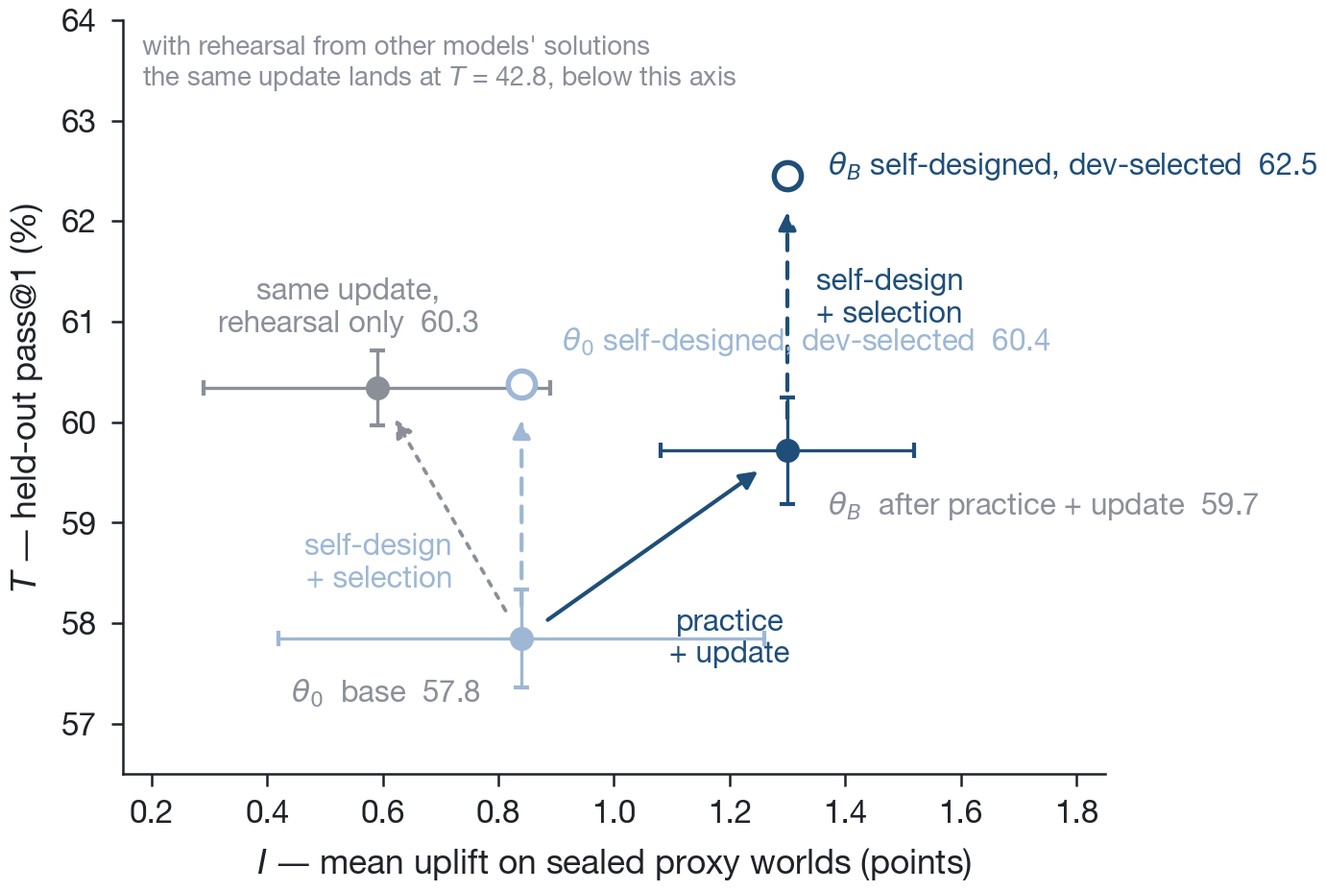
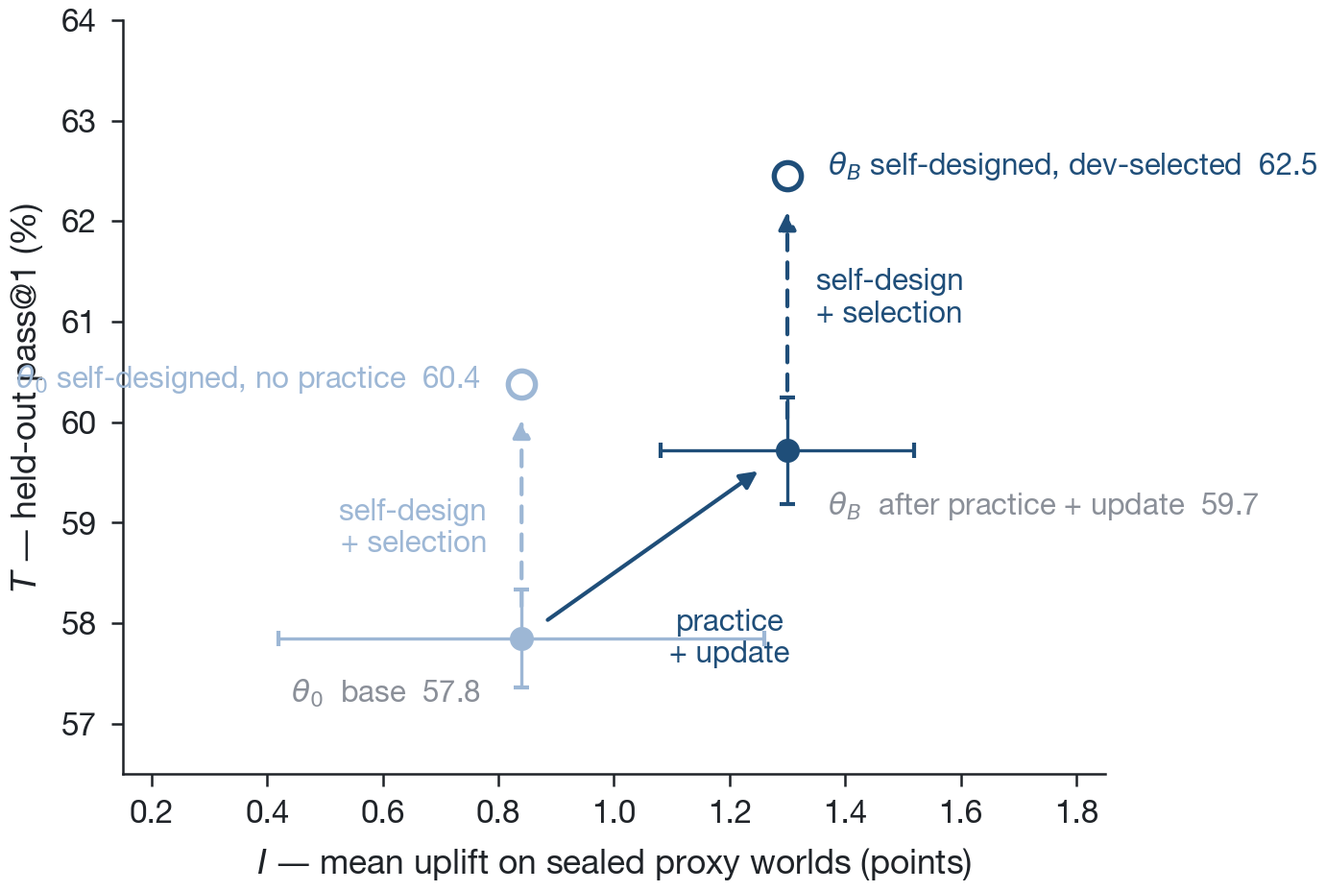
report: one chain, two rounds -- drop the control chain and the rehearsal-only control, keep the no-practice reference

diff --git a/en/index.html b/en/index.html
@@ -66,23 +66,23 @@ summary::before{content:'+';display:inline-block;width:18px;color:var(--mute)}de
 <nav class="toc col"><a href="#tldr">In brief</a><a href="#read">How to read</a><a href="#abstract">Abstract</a><a href="#findings">Findings</a><a href="#method">Method</a><a href="#results">Results</a><a href="#analysis">Analysis</a><a href="#limits">Limitations</a><a href="https://github.com/haochen2115/minimal-rsi">GitHub</a></nav>
 
 <section class="lead col" id="tldr"><p><b>The question:</b> can a model learn to improve itself by practicing on a smaller model — so that improvement ability and task ability rise together?<br>
-<b>What we did:</b> a 9B ran hundreds of real training experiments on flawed 2B models, was fine-tuned on the experience that worked, and then designed its own training; a control chain skipped the practice and went straight to self-design.<br>
-<b>What happened:</b> after one turn the practised 9B was up on both abilities, and self-design plus selection reached 62.5% (base 57.8, no practice 60.4). In a second turn neither chain gained; most self-designed programs hurt, and selection is what rescued them. Without an external input the loop turns once.</p></section>
+<b>What we did:</b> a 9B ran hundreds of real training experiments on flawed 2B models, was fine-tuned on the experience that worked, and then designed its own training; as a reference, the base model also designed its own training once without any practice.<br>
+<b>What happened:</b> after one turn the practised 9B was up on both abilities, and self-design plus selection reached 62.5% (base 57.8, no practice 60.4). A second turn added nothing to task ability; most self-designed programs hurt, and selection is what rescued them. Without an external input the loop turns once.</p></section>
 
-<figure class="wide"><img src="../assets/figs/fig_story.svg" alt="Figure 1"><figcaption><b>Figure 1 · The loop, and the two chains we measured.</b> Left: one turn. The researcher θ writes training programs for flawed 2B proxies and is updated on the ones that worked (θ<sub>B</sub>); it then designs its own training, and the program selected on the dev split gives θ′, the start of the next turn. Practice on the proxies is the only step where new information enters. Right: every circle is a model that was really trained and measured. The number above it is T, pass@1 on held-out problems; below it are I, the mean uplift its programs produce on sealed 2B worlds, and how many of its 32 programs run. The control chain skips practice.</figcaption></figure>
+<figure class="wide"><img src="../assets/figs/fig_story.svg" alt="Figure 1"><figcaption><b>Figure 1 · The loop, and the two rounds we measured.</b> Left: one turn. The researcher θ writes training programs for flawed 2B proxies and is updated on the ones that worked (θ<sub>B</sub>); it then designs its own training, and the program selected on the dev split gives θ′, the start of the next turn. Practice on the proxies is the only step where new information enters. Right: every circle is a model that was really trained and measured. The number above it is T, pass@1 on held-out problems; below it are I, the mean uplift its programs produce on sealed 2B worlds, and how many of its 32 programs run. The reference point is the base model designing its own training once, without practice.</figcaption></figure>
 
 <div class="col">
 <h2 id="read"><span class="no">§</span>How to read the numbers</h2>
 <ul>
 <li><b>T</b> (task ability): the model's own pass@1 on 127 held-out coding problems, in percent. One measurement has about ±1.5 points of noise, so differences under a point do not mean anything.</li>
-<li><b>I</b> (improvement ability): the model writes training programs for two 2B models whose defect type it has never seen; the programs are really run, and I is the mean improvement they produce, in points. It is averaged over programs that run, so read it next to "programs that run" — the control chain's round-1 head shows I = 1.48, but only 15 of its 32 programs were even valid; counting failures as zero it is 0.60, against 0.73 for the practised head.</li>
+<li><b>I</b> (improvement ability): the model writes training programs for two 2B models whose defect type it has never seen; the programs are really run, and I is the mean improvement they produce, in points. It is averaged over programs that run, so read it next to "programs that run".</li>
 <li><b>dev / hidden</b>: programs are selected on the dev split only; scores are reported on the hidden split only. A growing gap between them is the signature of overfitting the selection.</li>
 <li><b>A turn</b>: practice → update → self-design → selection; the selected model starts the next turn.</li>
 </ul>
-<section class="abstract" id="abstract"><h2>Abstract</h2><p>Recursive self-improvement (RSI) is mostly discussed at scales where it cannot be studied as a controlled experiment. We present <b>Minimal-RSI</b>, a small system in which the defining loop of RSI is carried out for real: a language model designs a training program for a model, the program is executed, its effect is measured, the model is trained on the programs that worked, and it then designs and undergoes its own training. The system uses a single model family — a 9B <em>researcher</em> and a 2B <em>proxy</em> — supervised fine-tuning only, and eight 40 GB GPUs. We measure two full turns of the loop. The researcher runs 244 real training experiments on flawed 2B checkpoints (976 proxy trainings) and is fine-tuned on the programs that worked, with rehearsal drawn from its own verified samples. This single update raises both abilities at once: improvement ability on sealed proxy tasks with a defect never seen in practice rises from +0.8 to +1.3 points of uplift, and the researcher's own pass@1 on held-out LiveCodeBench problems rises by +1.9 points; a dose-matched control attributes the former to the improvement experience and the latter to on-policy rehearsal. The updated researcher then designs its own training; the program selected on a development split reaches 62.5% pass@1, +4.6 points over the base model and +2.1 over the same self-design-and-select procedure without proxy practice. In a second round, task ability plateaus for both chains while improvement ability rises with every update and falls with every self-training step. Across all conditions, self-designed training lowers its target in most instances, while the successful programs are predictable from a development split (r = 0.79): at this scale the dependable gains come from practice plus selection among the model's own designs.</p></section>
+<section class="abstract" id="abstract"><h2>Abstract</h2><p>Recursive self-improvement (RSI) is mostly discussed at scales where it cannot be studied as a controlled experiment. We present <b>Minimal-RSI</b>, a small system in which the defining loop of RSI is carried out for real: a language model designs a training program for a model, the program is executed, its effect is measured, the model is trained on the programs that worked, and it then designs and undergoes its own training. The system uses a single model family — a 9B <em>researcher</em> and a 2B <em>proxy</em> — supervised fine-tuning only, and eight 40 GB GPUs. We measure two full turns of the loop. The researcher runs 244 real training experiments on flawed 2B checkpoints (976 proxy trainings) and is fine-tuned on the programs that worked, with rehearsal drawn from its own verified samples. This single update raises both abilities at once: improvement ability on sealed proxy tasks with a defect never seen in practice rises from +0.8 to +1.3 points of uplift, and the researcher's own pass@1 on held-out LiveCodeBench problems rises by +1.9 points; The updated researcher then designs its own training; the program selected on a development split reaches 62.5% pass@1, +4.6 points over the base model and +2.1 over the same self-design-and-select procedure without proxy practice. In a second round, task ability plateaus while improvement ability rises with every update and falls with every self-training step. Across all conditions, self-designed training lowers its target in most instances, while the successful programs are predictable from a development split (r = 0.79): at this scale the dependable gains come from practice plus selection among the model's own designs.</p></section>
 
 <h2 id="findings"><span class="no">§</span>Findings</h2>
-<ol class="findings"><li><b>One update raises both abilities.</b> Practice on 2B proxies, consolidated by an on-policy update, raises the researcher's improvement ability and task ability in the same step; self-design with selection then reaches 62.5% (+4.6).</li><li><b>T from rehearsal, I from improvement experience.</b> The same update without the improvement examples raises T equally but not I, and only 4 of 32 proposals run. Rehearsal on other models' solutions costs 15 points of T.</li><li><b>Self-designed training mostly hurts, but predictably.</b> 19 of 30 self-designed programs lower their target; dev and held-out scores correlate at r = 0.79. At this scale, selection is worth more than learned design.</li><li><b>Without an external input the loop turns once.</b> The control chain gains +2.5 once and stops; in the practice chain the ability fed by real experiments keeps rising (I 0.84 → 1.87) while T plateaus with the control. Improvement runs at the rate new information enters.</li></ol>
+<ol class="findings"><li><b>One update raises both abilities.</b> Practice on 2B proxies, consolidated by an on-policy update, raises the researcher's improvement ability and task ability in the same step; self-design with selection then reaches 62.5% (+4.6).</li><li><b>Rehearsal must be on-policy.</b> The same update with rehearsal drawn from other models' solutions costs 15 points of T and yields no transfer; drawn from the researcher's own verified samples it gains 1.9. The rehearsal source decides whether the update helps or destroys.</li><li><b>Self-designed training mostly hurts, but predictably.</b> 19 of 30 self-designed programs lower their target; dev and held-out scores correlate at r = 0.79. At this scale, selection is worth more than learned design.</li><li><b>Without an external input the loop turns once.</b> Self-design alone, without practice, gains +2.5 once (60.4). In the loop, the ability fed by real experiments keeps rising (I 0.84 → 1.87) while T plateaus after one turn (62.5 → 62.8). Improvement runs at the rate new information enters.</li></ol>
 
 <h2 id="problem"><span class="no">1</span>Problem</h2>
 <p>A system improves itself recursively when the procedure that improves it is itself a product of the system and gets better as the system does. For language models the procedure is training, so the object of interest is a model that decides how models — including itself — should be trained, and whose decisions improve with experience. Studying this at frontier scale is expensive and hard to control. We ask instead for the smallest setting in which every step of the loop is real, so that its central assumption can be tested directly.</p>
@@ -115,9 +115,8 @@ summary::before{content:'+';display:inline-block;width:18px;color:var(--mute)}de
 <tr><td>θ₀, base</td><td class="num">0.5785 ± 0.0049</td><td class="num">+0.0084 ± 0.0042</td><td class="num">17 / 32</td></tr>
 <tr class="hl"><td>θ_B, after proxy practice + update</td><td class="num"><b>0.5972</b> (+1.9)</td><td class="num"><b>+0.0130</b> ± 0.0022</td><td class="num">31 / 32</td></tr>
 <tr class="hl"><td>θ_B after self-design, selected on dev</td><td class="num"><b>0.6245</b> (+4.6)</td><td class="num">—</td><td class="num">—</td></tr>
-<tr><td>control: same update, rehearsal only</td><td class="num">0.6034 (+2.5)</td><td class="num">+0.0059 ± 0.0030</td><td class="num">4 / 32</td></tr>
 </table></div>
-<p>On the two sealed worlds, whose defect type never appears in practice, θ_B's programs are valid 97% of the time against 53% (Fisher p &lt; 0.001), and the scored programs' mean uplift rises from +0.0084 to +0.0130 (22 of 26 positive). The researcher's own task ability rises by +1.9 points. A dose-matched control separates the two effects: an update of the same size on rehearsal alone raises T as much (+2.5) but leaves I at +0.6 with only 4 of 32 proposals executable — <b>the task-ability gain is the on-policy rehearsal; the improvement-ability gain is the improvement experience</b>. θ_B then designs eight programs for itself; the one selected on the development split reaches 0.6245.</p>
+<p>On the two sealed worlds, whose defect type never appears in practice, θ_B's programs are valid 97% of the time against 53% (Fisher p &lt; 0.001), and the scored programs' mean uplift rises from +0.0084 to +0.0130 (22 of 26 positive). The researcher's own task ability rises by +1.9 points. θ_B then designs eight programs for itself; the one selected on the development split reaches 0.6245.</p>
 <figure><img src="../assets/figs/fig_plane.png" alt="Figure 3">
 <figcaption><b>Figure 3 · One turn of the loop in the (I, T) plane.</b> Filled markers are measured checkpoints with standard errors; open markers are dev-selected self-trained models whose I has not been measured. Proxy practice with the on-policy update moves the researcher up and to the right; the same update without the improvement examples moves it up only; self-design with selection then moves either researcher up, further from the practised one.</figcaption></figure>
 
@@ -144,44 +143,36 @@ summary::before{content:'+';display:inline-block;width:18px;color:var(--mute)}de
 
 </details>
 <h3>3.4 A second round: task ability plateaus, improvement ability zig-zags upward</h3>
-<div class="tw"><table><caption><b>Table 4 · Chain heads by round (hidden / dev pass@1 %, I in points).</b></caption>
-<tr><th>round</th><th>practice chain</th><th>control chain (self-design + selection only)</th></tr>
-<tr><td>0</td><td class="num">57.85 / — / I 0.84</td><td class="num">57.85 / — / I 0.84</td></tr>
-<tr><td>1</td><td class="num">62.45 / 64.19 / I 0.78</td><td class="num">60.38 / 60.72 / I 1.48</td></tr>
-<tr class="hl"><td>2</td><td class="num">62.80 / 63.89 / I 1.36</td><td class="num">59.99 / 61.41 / —</td></tr>
+<div class="tw"><table><caption><b>Table 4 · The chain head by round (pass@1 %, I in points).</b></caption>
+<tr><th>round</th><th class="num">T, held-out</th><th class="num">T, dev</th><th class="num">I</th></tr>
+<tr><td>0</td><td class="num">57.85</td><td class="num">—</td><td class="num">0.84</td></tr>
+<tr><td>1</td><td class="num">62.45</td><td class="num">64.19</td><td class="num">0.78</td></tr>
+<tr class="hl"><td>2</td><td class="num">62.80</td><td class="num">63.89</td><td class="num">1.36</td></tr>
 </table></div>
-<p>Both chains run a second round from their dev-selected round-1 heads. The practice chain's update pushes I to 1.87, the highest value in the study, and lowers T by 2.2 points; its eight self-designed programs are the mildest of any condition (4 of 8 positive, worst −1.1), and the dev-selected one reaches 62.80. The control chain's eight programs include none that is positive and one that collapses the model to 2% pass@1; dev selection discards it, and the new head scores 59.99. After two rounds the chains are 2.8 points apart (2.5 on dev), but neither gains in the second round on either split. I behaves differently from T: each update raises it (+0.46, +1.09) and each self-training step lowers it (−0.52, −0.51).</p>
+<p>The loop runs a second round from the dev-selected round-1 head. The update pushes I to 1.87, the highest value in the study, and lowers T by 2.2 points; the eight self-designed programs are the mildest of any condition (4 of 8 positive, worst −1.1), and the dev-selected one reaches 62.80. That is +0.35 on the held-out split and −0.30 on dev against the round-1 head: within measurement noise, no gain on either split. I behaves differently from T: each update raises it (+0.46, +1.09) and each self-training step lowers it (−0.52, −0.51).</p>
 <figure><img src="../assets/figs/fig_rounds.png" alt="Figure 5">
-<figcaption><b>Figure 5 · Two rounds of both chains.</b> (a) In the (I, T) plane: dark is the practice chain, light the control chain; solid arrows are proxy practice with the update, dashed arrows self-design with dev selection. (b) T of the chain head by round, held-out (solid) and dev (dotted). The control chain's round-2 head is drawn open in (a): its T was measured, its I was not.</figcaption></figure>
+<figcaption><b>Figure 5 · Two rounds of the loop.</b> (a) In the (I, T) plane: solid arrows are proxy practice with the update, dashed arrows self-design with dev selection. (b) T of the chain head by round, held-out (solid) and dev (dotted).</figcaption></figure>
 
-<details><summary><b>More data: generalisation to later problems</b></summary>
-<h3>3.5 Generalisation to later problems</h3>
-<p>On the 422-problem temporal OOD set (problems later than all training data), T(θ₀) = 0.333, the no-practice C = 0.351 (+1.8), and the practice chain's round-1 head = 0.351 (+1.8). The gain that dev selection finds is not specific to the held-out split's time window; the practised chain's 2.1-point advantage on the held-out split does not reappear on the later problems.</p>
-
-</details>
 <h2 id="analysis"><span class="no">4</span>Analysis</h2>
 <h3>Where the information comes from, and why the loop plateaus</h3>
-<blockquote class="key"><p><b>Self-improvement without an external input is compression, not expansion.</b> The two chains differ in exactly one thing: whether new information enters between rounds. The control chain has none — the model writes its own training, trains on its own verified samples, and is selected on a fixed development split — and it moves once (+2.5) and stops. That single gain is the kind a closed loop can produce: converting pass@k into pass@1; the dose-matched rehearsal-only update produces the same +2.5 with no design at all. The practice chain has an external input, the measured outcomes of real proxy experiments, and the ability that input feeds keeps rising (I: 0.84 → 1.30 → 1.87) while the ability it does not feed plateaus with the control's (T: 62.5 → 62.8). What limits T is not the researcher but the fixed amount of information in the task environment. A model that improves itself from its own outputs alone — lifting itself by its own bootstraps — cannot sustain improvement; sustained self-improvement needs a channel through which facts the model cannot derive enter the loop, and the rate of that channel sets the rate of improvement.</p></blockquote>
+<blockquote class="key"><p><b>Self-improvement without an external input is compression, not expansion.</b> The loop has one step at which facts the model cannot derive enter it: the measured outcomes of real proxy experiments. The ability that step feeds keeps rising (I: 0.84 → 1.30 → 1.87 at the two updates); the ability it does not feed does not (T: 62.5 → 62.8). What a closed loop produces on its own is shown by the base model's self-design without practice: one gain of 2.5 points, of the kind that converts pass@k into pass@1, after which the next step is a coin flip on a target with no headroom. What limits T is not the researcher but the fixed amount of information in the task environment. A model that improves itself from its own outputs alone — lifting itself by its own bootstraps — cannot sustain improvement; sustained self-improvement needs a channel through which facts the model cannot derive enter the loop, and the rate of that channel sets the rate of improvement.</p></blockquote>
 <p>The channel here is reliable but slow: with four training seeds the per-world ranking reliability is 0.62–0.89, yet 976 proxy trainings yield fifty training examples; and the level T can reach is bounded separately by the problem pool and verifier. The second-round plateau is consistent with both.</p>
-<figure><img src="../assets/figs/fig5_reliability.png" alt="Figure 6">
-<figcaption><b>Figure 6 · Reliability of the reward.</b> Uplift of the same program under two training seeds, per rollout world, with the single-measurement correlation r and the reliability of the two-seed mean; four seeds raise the reliabilities to 0.65–0.89, and one world (easy_heavy_s22, 0.11), where programs do not measurably differ, is excluded from the update.</figcaption></figure>
 <h3>Why self-designed training mostly hurts</h3>
 <p>θ₀ is a post-trained model at 0.58 pass@1; a 240K-token supervised update on its own filtered samples moves it by a few points, mostly down. The programs are reasonable — the same families produce +1 to +3 points on the 2B proxies — and the difference is headroom: the proxies were built with a known defect to recover from, the 9B was not. In this regime a program's sign is close to a coin flip, and the quantity worth optimising is the <b>selection</b> among candidates, which a development split predicts well. The practised researcher's programs are less harmful on average and its selected best is higher, in the hypothesised direction and at a size this study cannot resolve.</p>
 <h3>How the programs change</h3>
-<figure><img src="../assets/figs/fig3_programs.png" alt="Figure 7">
-<figcaption><b>Figure 7 · Method mix (budget-weighted) and stages per program.</b> After practice the researcher writes single-stage programs almost exclusively, split between rejection sampling and failure-targeted synthesis — the families that did well on the proxies; all programs are distinct.</figcaption></figure>
+<figure><img src="../assets/figs/fig3_programs.png" alt="Figure 6">
+<figcaption><b>Figure 6 · Method mix (budget-weighted) and stages per program.</b> After practice the researcher writes single-stage programs almost exclusively, split between rejection sampling and failure-targeted synthesis — the families that did well on the proxies; all programs are distinct.</figcaption></figure>
 
 <h2 id="limits"><span class="no">5</span>Limitations</h2>
 <ul>
 <li><b>Power.</b> K = 8 and a within-condition s.d. of 0.035 give s.e.(Δ) ≈ 0.017: only a transfer effect of roughly 5 points would have been detected; the +1.3-point trend is a statement at that resolution.</li>
-<li><b>The control's I</b> rests on 4 executable programs out of 32; its validity rate is the firmer number.</li>
 <li><b>Protocol.</b> The pre-registered protocol drew rehearsal from the solution pool; the on-policy update and the conditions built on it were specified after that variant's result, with the pre-registered rule and K. The second-round update's task-ability loss (−2.2) exceeded the safety floor we had set for updates (−2.0); that round is reported as exploratory.</li>
-<li><b>Round 2 is single-chain evidence</b>: one dev-selected head per chain and round, so the 2.8-point separation carries the sampling noise of which program was selected.</li>
+<li><b>Round 2 rests on one head per round</b>: a single dev-selected model, so the round-to-round changes carry the sampling noise of which program was selected.</li>
 <li><b>Scope.</b> One model family; one task domain; a 127-problem held-out split (measurement s.d. ≈ 0.015 per run); three rollout defect types and one sealed type; supervised objectives only; programs implemented by a stronger external coding agent (identical across conditions).</li>
 </ul>
 
 <h2 id="conclusion"><span class="no">6</span>Conclusion</h2>
-<p>Minimal-RSI makes every step of a recursive self-improvement loop real at a scale where it can be tested, and measures two turns of it. Practice on a smaller model, consolidated by an update with on-policy rehearsal, raises the researcher's improvement ability and its task ability in the same step; its self-designed training, selected on a development split, ends 4.6 points above the base model and 2.1 above the same procedure without practice; its designs for the base target trend better than the base model's own, at a size this study cannot resolve. A second round adds nothing detectable to task ability. What is resolved is that at this scale self-designed training is usually harmful, that its successes are predictable from a development split, that the rehearsal source decides whether the update helps or destroys, and that the loop's limiting resource is the rate at which real experiments feed it information. More generally, the two chains draw one lesson together: a model that improves itself from its own outputs alone redistributes what it already has, and improvement is sustained only at the rate at which facts it cannot derive enter the loop.</p>
+<p>Minimal-RSI makes every step of a recursive self-improvement loop real at a scale where it can be tested, and measures two turns of it. Practice on a smaller model, consolidated by an update with on-policy rehearsal, raises the researcher's improvement ability and its task ability in the same step; its self-designed training, selected on a development split, ends 4.6 points above the base model and 2.1 above the same procedure without practice; its designs for the base target trend better than the base model's own, at a size this study cannot resolve. A second round adds nothing detectable to task ability. What is resolved is that at this scale self-designed training is usually harmful, that its successes are predictable from a development split, that the rehearsal source decides whether the update helps or destroys, and that the loop's limiting resource is the rate at which real experiments feed it information. More generally, the two rounds suggest one lesson: a model that improves itself from its own outputs alone redistributes what it already has, and improvement is sustained only at the rate at which facts it cannot derive enter the loop.</p>
 
 
 <p class="note">This page hosts the report; the experiment code and run records are not released yet.<br>Hao Chen · haochen2115@gmail.com</p>

diff --git a/zh/index.html b/zh/index.html
@@ -66,23 +66,23 @@ summary::before{content:'+';display:inline-block;width:18px;color:var(--mute)}de
 <nav class="toc col"><a href="#tldr">三句话</a><a href="#read">怎么读</a><a href="#abstract">摘要</a><a href="#findings">核心发现</a><a href="#method">方法</a><a href="#results">结果</a><a href="#analysis">分析</a><a href="#limits">局限</a><a href="https://github.com/haochen2115/minimal-rsi">GitHub</a></nav>
 
 <section class="lead col" id="tldr"><p><b>想验证的事：</b>一个模型能不能通过"练习改进更小的模型"，学会改进自己——改进能力和任务能力一起涨。<br>
-<b>做法：</b>让 9B 在带缺陷的 2B 上做几百次真实训练实验，把有效的经验学进去，然后让它给自己设计训练；另一条链不练习，直接给自己设计训练，作对照。<br>
-<b>结果：</b>一圈下来，练过的 9B 两种能力都升了，自我设计加挑选到 62.5%（基座 57.8，不练习 60.4）。但第二圈两条链都不再涨；自我设计的方案多数有害，是"挑选"救了它。没有外部输入，闭环只转一圈。</p></section>
+<b>做法：</b>让 9B 在带缺陷的 2B 上做几百次真实训练实验，把有效的经验学进去，然后让它给自己设计训练；作为参照，基座模型也不经练习、直接给自己设计了一次训练。<br>
+<b>结果：</b>一圈下来，练过的 9B 两种能力都升了，自我设计加挑选到 62.5%（基座 57.8，不练习 60.4）。第二圈任务能力不再涨；自我设计的方案多数有害，是"挑选"救了它。没有外部输入，闭环只转一圈。</p></section>
 
-<figure class="wide"><img src="../assets/figs/fig_story_zh.svg" alt="图 1"><figcaption><b>图 1 · 闭环，以及我们测量的两条链。</b>左：一圈。researcher θ 为带缺陷的 2B 代理写训练方案，在有效的方案上更新得到 θ<sub>B</sub>；它再给自己设计训练，按 dev 选出的方案得到 θ′，作为下一圈的起点。在代理上练习是唯一有新信息进入的一步。右：每个圆圈都是真实训练并测量过的模型，上方数字是 T（留出题 pass@1），下方是 I（它的方案在封存 2B world 上的平均 uplift）和 32 个方案里能跑通的个数。对照链跳过练习。</figcaption></figure>
+<figure class="wide"><img src="../assets/figs/fig_story_zh.svg" alt="图 1"><figcaption><b>图 1 · 闭环，以及我们测量的两圈。</b>左：一圈。researcher θ 为带缺陷的 2B 代理写训练方案，在有效的方案上更新得到 θ<sub>B</sub>；它再给自己设计训练，按 dev 选出的方案得到 θ′，作为下一圈的起点。在代理上练习是唯一有新信息进入的一步。右：每个圆圈都是真实训练并测量过的模型，上方数字是 T（留出题 pass@1），下方是 I（它的方案在封存 2B world 上的平均 uplift）和 32 个方案里能跑通的个数。参照点是基座模型不经练习、直接给自己设计一次训练。</figcaption></figure>
 
 <div class="col">
 <h2 id="read"><span class="no">§</span>怎么读这些数字</h2>
 <ul>
 <li><b>T</b>（任务能力）：模型自己做 127 道留出编程题的 pass@1，百分数。一次测量的噪声约 ±1.5 分，所以 1 分以内的差别不要当真。</li>
-<li><b>I</b>（改进能力）：让模型给两个它从未见过缺陷类型的 2B 写训练方案，真的训、真的测，方案带来的平均提升（百分点）。只算跑通的方案，所以要同时看"能跑通的方案"有几个——对照链第 1 圈的 I = 1.48 看着高，但 32 个方案只有 15 个合法；按跑不通计 0，它是 0.60，练习链的头是 0.73。</li>
+<li><b>I</b>（改进能力）：让模型给两个它从未见过缺陷类型的 2B 写训练方案，真的训、真的测，方案带来的平均提升（百分点）。只算跑通的方案，所以要同时看"能跑通的方案"有几个。</li>
 <li><b>dev / hidden</b>：挑方案只看 dev（开发集），报告分数只看 hidden（留出集）。两者的差距变大，就是在"背题"。</li>
 <li><b>圈</b>：练习 → 更新 → 自我设计 → 挑选，算一圈；选出的模型是下一圈的起点。</li>
 </ul>
-<section class="abstract" id="abstract"><h2>Abstract</h2><p>递归自我改进（RSI）大多只在无法做受控实验的规模上被讨论。我们提出 <b>Minimal-RSI</b>：一个小型系统，RSI 的定义性闭环在其中被真实地执行——语言模型为某个模型设计训练方案，方案被执行，效果被测量，模型在有效的方案上接受训练，随后为自己设计训练并接受这次训练。系统只用一个模型家族（9B 的 <em>researcher</em> 与 2B 的<em>代理模型</em>）、仅监督微调、8 张 40GB GPU。我们测量了闭环完整的两圈。researcher 在带缺陷的 2B checkpoint 上进行 244 次真实训练实验（976 次代理训练），在有效的方案上接受微调，rehearsal 取自它自己验证过的采样。这一次更新同时提高两种能力：在缺陷类型从未见过的封存代理任务上，改进能力从 +0.8 升到 +1.3 个 uplift 点，自身在留出的 LiveCodeBench 题目上的 pass@1 上升 +1.9；剂量对齐的对照表明前者来自改进经验、后者来自 on-policy rehearsal。更新后的 researcher 为自己设计训练并按开发集选择，达到 62.5% 的 pass@1，比基座高 4.6 个点、比不经练习的同一流程高 2.1 个点。第二圈两条链的任务能力都进入平台，改进能力则每次更新都升、每次自训练都降。在全部条件下，自我设计的训练多数情况下降低目标模型，而成功的方案可由开发集预测（r = 0.79）：在这个规模上，可靠的增益来自练习加上在模型自己的设计中做选择。</p></section>
+<section class="abstract" id="abstract"><h2>Abstract</h2><p>递归自我改进（RSI）大多只在无法做受控实验的规模上被讨论。我们提出 <b>Minimal-RSI</b>：一个小型系统，RSI 的定义性闭环在其中被真实地执行——语言模型为某个模型设计训练方案，方案被执行，效果被测量，模型在有效的方案上接受训练，随后为自己设计训练并接受这次训练。系统只用一个模型家族（9B 的 <em>researcher</em> 与 2B 的<em>代理模型</em>）、仅监督微调、8 张 40GB GPU。我们测量了闭环完整的两圈。researcher 在带缺陷的 2B checkpoint 上进行 244 次真实训练实验（976 次代理训练），在有效的方案上接受微调，rehearsal 取自它自己验证过的采样。这一次更新同时提高两种能力：在缺陷类型从未见过的封存代理任务上，改进能力从 +0.8 升到 +1.3 个 uplift 点，自身在留出的 LiveCodeBench 题目上的 pass@1 上升 +1.9；更新后的 researcher 为自己设计训练并按开发集选择，达到 62.5% 的 pass@1，比基座高 4.6 个点、比不经练习的同一流程高 2.1 个点。第二圈任务能力进入平台，改进能力则每次更新都升、每次自训练都降。在全部条件下，自我设计的训练多数情况下降低目标模型，而成功的方案可由开发集预测（r = 0.79）：在这个规模上，可靠的增益来自练习加上在模型自己的设计中做选择。</p></section>
 
 <h2 id="findings"><span class="no">§</span>核心发现</h2>
-<ol class="findings"><li><b>一次更新，两种能力同步上升。</b> 在 2B 代理上练习、再以 on-policy 更新巩固，researcher 的改进能力与任务能力在同一步里同时提高；自我设计加选择随后到达 62.5%（+4.6）。</li><li><b>T 来自 rehearsal，I 来自改进经验。</b> 同一更新去掉改进样本：T 上升同样多，I 不升、32 个提案只有 4 个能执行。改用其他模型的解答做 rehearsal：T 掉 15 个点。</li><li><b>自我设计多数有害，但可预测。</b> 30 个自我设计方案中 19 个降低目标模型；dev 与 hidden 分数相关 r = 0.79。在这个规模上，选择比学习设计更值钱。</li><li><b>没有外部输入，闭环只转一圈。</b> 对照链一次 +2.5 后停住；练习链中外部实验喂养的 I 持续上升（0.84 → 1.87），无外部输入的 T 与对照链一起进入平台。改进的速率等于新信息进入闭环的速率。</li></ol>
+<ol class="findings"><li><b>一次更新，两种能力同步上升。</b> 在 2B 代理上练习、再以 on-policy 更新巩固，researcher 的改进能力与任务能力在同一步里同时提高；自我设计加选择随后到达 62.5%（+4.6）。</li><li><b>rehearsal 必须 on-policy。</b> 同一次更新，rehearsal 改用其他模型的解答：T 掉 15 个点、没有迁移；用模型自己验证过的采样：T 升 1.9。rehearsal 的来源决定更新是有益还是毁灭性的。</li><li><b>自我设计多数有害，但可预测。</b> 30 个自我设计方案中 19 个降低目标模型；dev 与 hidden 分数相关 r = 0.79。在这个规模上，选择比学习设计更值钱。</li><li><b>没有外部输入，闭环只转一圈。</b> 不练习、只靠自我设计一次能涨 +2.5（60.4）。闭环里，外部实验喂养的 I 持续上升（0.84 → 1.87），T 一圈之后进入平台（62.5 → 62.8）。改进的速率等于新信息进入闭环的速率。</li></ol>
 
 <h2 id="problem"><span class="no">1</span>问题</h2>
 <p>当改进一个系统的过程本身是该系统的产物、并随系统变强而变好时，这个系统在递归地改进自己。对语言模型而言，这个过程是训练；研究对象因此是一个决定模型（包括它自己）如何被训练、并且决定随经验而改善的模型。在前沿规模上，这件事昂贵且难以控制。我们转而寻找最小的设定，让闭环的每一步都真实发生，从而可以直接检验它所依赖的假设。</p>
@@ -115,9 +115,8 @@ summary::before{content:'+';display:inline-block;width:18px;color:var(--mute)}de
 <tr><td>θ₀，基座</td><td class="num">0.5785 ± 0.0049</td><td class="num">+0.0084 ± 0.0042</td><td class="num">17 / 32</td></tr>
 <tr class="hl"><td>θ_B，代理练习 + 更新之后</td><td class="num"><b>0.5972</b>（+1.9）</td><td class="num"><b>+0.0130</b> ± 0.0022</td><td class="num">31 / 32</td></tr>
 <tr class="hl"><td>θ_B 自我设计、按 dev 选出</td><td class="num"><b>0.6245</b>（+4.6）</td><td class="num">—</td><td class="num">—</td></tr>
-<tr><td>对照：同一更新、只有 rehearsal</td><td class="num">0.6034（+2.5）</td><td class="num">+0.0059 ± 0.0030</td><td class="num">4 / 32</td></tr>
 </table></div>
-<p>在两个缺陷类型从未在练习中出现的封存 world 上，θ_B 的方案 97% 有效（基座 53%，Fisher p &lt; 0.001），打分方案的平均 uplift 从 +0.0084 升到 +0.0130（26 个中 22 个为正）。researcher 自身的任务能力上升 +1.9 个点。剂量对齐的对照把两种效应分开：同样大小、只用 rehearsal 的更新让 T 上升同样多（+2.5），但 I 停在 +0.6、32 个提案只有 4 个能执行——<b>T 的增益来自 on-policy rehearsal，I 的增益来自改进经验</b>。θ_B 随后为自己设计八个方案，按开发集选出的那个到 0.6245。</p>
+<p>在两个缺陷类型从未在练习中出现的封存 world 上，θ_B 的方案 97% 有效（基座 53%，Fisher p &lt; 0.001），打分方案的平均 uplift 从 +0.0084 升到 +0.0130（26 个中 22 个为正）。researcher 自身的任务能力上升 +1.9 个点。θ_B 随后为自己设计八个方案，按开发集选出的那个到 0.6245。</p>
 <figure><img src="../assets/figs/fig_plane.png" alt="图 3">
 <figcaption><b>图 3 · 闭环的一圈在 (I, T) 平面上。</b>实心点为已测量的 checkpoint，附标准误；空心点为按 dev 选出的自训练模型，其 I 未测。代理练习加 on-policy 更新让 researcher 向右上移动；同一更新去掉改进样本只向上移动；自我设计加选择再把两者向上推，练习过的那条推得更高。</figcaption></figure>
 
@@ -144,45 +143,37 @@ summary::before{content:'+';display:inline-block;width:18px;color:var(--mute)}de
 
 </details>
 <h3>3.4 第二圈：任务能力进入平台，改进能力锯齿上升</h3>
-<div class="tw"><table><caption><b>表 4 · 各圈链头（hidden / dev pass@1 %，I 单位为点）。</b></caption>
-<tr><th>圈</th><th>练习链</th><th>对照链（只有自我设计 + 选择）</th></tr>
-<tr><td>0</td><td class="num">57.85 / — / I 0.84</td><td class="num">57.85 / — / I 0.84</td></tr>
-<tr><td>1</td><td class="num">62.45 / 64.19 / I 0.78</td><td class="num">60.38 / 60.72 / I 1.48</td></tr>
-<tr class="hl"><td>2</td><td class="num">62.80 / 63.89 / I 1.36</td><td class="num">59.99 / 61.41 / —</td></tr>
+<div class="tw"><table><caption><b>表 4 · 各圈的链头（pass@1 %，I 单位为点）。</b></caption>
+<tr><th>圈</th><th class="num">T，留出集</th><th class="num">T，开发集</th><th class="num">I</th></tr>
+<tr><td>0</td><td class="num">57.85</td><td class="num">—</td><td class="num">0.84</td></tr>
+<tr><td>1</td><td class="num">62.45</td><td class="num">64.19</td><td class="num">0.78</td></tr>
+<tr class="hl"><td>2</td><td class="num">62.80</td><td class="num">63.89</td><td class="num">1.36</td></tr>
 </table></div>
-<p>两条链各从 dev 选出的第 1 圈头出发再跑一圈。练习链的更新把 I 推到 1.87（全研究最高），T 则下降 2.2 个点；它的八个自我设计方案是所有条件中最温和的（4/8 为正，最差 −1.1），dev 选出的头到 62.80。对照链的八个方案没有一个为正、其中一个把模型打到 2% 的 pass@1，dev 选择把它排除，新头 59.99。两圈之后两条链相差 2.8 个点（dev 2.5），但第二圈两条链在任一 split 上都没有增益。I 与 T 的行为不同：每次更新都提高它（+0.46、+1.09），每次自训练都降低它（−0.52、−0.51）。</p>
+<p>闭环从 dev 选出的第 1 圈头出发再跑一圈。更新把 I 推到 1.87（全研究最高），T 则下降 2.2 个点；八个自我设计方案是所有条件中最温和的（4/8 为正，最差 −1.1），dev 选出的头到 62.80。相对第 1 圈的头，留出集 +0.35、dev −0.30，都在测量噪声之内：任一 split 上都没有增益。I 与 T 的行为不同：每次更新都提高它（+0.46、+1.09），每次自训练都降低它（−0.52、−0.51）。</p>
 <figure><img src="../assets/figs/fig_rounds.png" alt="图 5">
-<figcaption><b>图 5 · 两条链的两圈。</b>(a) (I, T) 平面：深色为练习链，浅色为对照链；实线为代理练习加更新，虚线为自我设计加 dev 选择。(b) 各圈链头的 T，留出集（实线）与开发集（点线）。对照链第 2 圈的头在 (a) 中画为空心：测了 T，未测 I。</figcaption></figure>
+<figcaption><b>图 5 · 闭环的两圈。</b>(a) (I, T) 平面：实线为代理练习加更新，虚线为自我设计加 dev 选择。(b) 各圈链头的 T，留出集（实线）与开发集（点线）。</figcaption></figure>
 
-<details><summary><b>更多数据：泛化到更晚的题目</b></summary>
-<h3>3.5 泛化到更晚的题目</h3>
-<p>在 422 题的时间外推集上（题目晚于全部训练数据），T(θ₀) = 0.333，不经练习的 C = 0.351（+1.8），练习链第 1 圈的头 = 0.351（+1.8）。dev 选择找到的增益不局限于留出集的时间窗口；练习链在留出集上 2.1 个点的优势在更晚的题目上没有再现。</p>
-
-</details>
 <h2 id="analysis"><span class="no">4</span>分析</h2>
 <h3>信息从哪里来，为什么会平台</h3>
-<blockquote class="key"><p><b>没有外部输入的自我改进是压缩，不是扩展。</b>两条链只差一件事：圈与圈之间有没有新信息进入。对照链没有——模型自己写方案、在自己的验证样本上训练、在固定的开发集上被选择——它移动了一次（+2.5）就停下；这一次增益正是封闭闭环所能产生的那一种：把 pass@k 压成 pass@1，剂量对齐的纯 rehearsal 更新不需要任何设计就得到同样的 +2.5。练习链有一个外部输入——真实代理实验的结果——这个输入喂养的能力持续上升（I：0.84 → 1.30 → 1.87），它不喂养的能力则与对照链一起进入平台（T：62.5 → 62.8）。限制 T 的不是 researcher，而是任务环境里固定的信息量。模型仅凭自己的输出改进自己——"左脚踩右脚"——无法持续；持续的自我改进需要一条让模型推导不出的事实进入闭环的信道，而这条信道的速率决定了改进的速率。</p></blockquote>
+<blockquote class="key"><p><b>没有外部输入的自我改进是压缩，不是扩展。</b>闭环里只有一步会让模型推导不出的事实进入：真实代理实验的测量结果。这一步喂养的能力持续上升（I：0.84 → 1.30 → 1.87，每次更新都升）；它不喂养的能力则没有（T：62.5 → 62.8）。封闭的闭环靠自己能产生什么，基座模型不经练习的自我设计给出了答案：一次 2.5 个点的增益，也就是把 pass@k 压成 pass@1 的那一种；此后在一个没有上升空间的目标上，下一步接近抛硬币。限制 T 的不是 researcher，而是任务环境里固定的信息量。模型仅凭自己的输出改进自己——"左脚踩右脚"——无法持续；持续的自我改进需要一条让模型推导不出的事实进入闭环的信道，而这条信道的速率决定了改进的速率。</p></blockquote>
 
 <p>只是反复阅读固定题集的闭环，至多把 pass@k 转化为 pass@1，必然饱和；缺乏外部信息源的自博弈会进入平台期。在 Minimal-RSI 中，新信息通过<em>实验</em>进入：某个方案能否改进某个模型，是关于学习动力学的事实，researcher 无法推导，每次真实训练揭示其中一部分。这条信道可靠但很慢——四个 seed 下排序信度 0.62–0.89，但 976 次代理训练只换来 50 个训练样本——而 T 能到达的高度另受题池与验证器约束。第二圈的平台与此一致。</p>
-<figure><img src="../assets/figs/fig5_reliability.png" alt="图 6">
-<figcaption><b>图 6 · 奖励的信度。</b>同一方案在两个训练 seed 下的 uplift，按 rollout world 分面，标出单次测量的相关 r 与两 seed 均值的信度；四个 seed 时升至 0.65–0.89，一个 world（easy_heavy_s22，0.11）的方案之间没有可测量差异，被排除在更新之外。</figcaption></figure>
 <h3>为什么自我设计的训练大多有害</h3>
 <p>θ₀ 是一个 pass@1 为 0.58 的后训练模型；在自己的过滤样本上做 24 万 token 的监督更新只会让它移动几个点，且多半向下。方案本身是合理的——同样的方法族在 2B 代理上带来 +1 到 +3 个点——差别在于上升空间：代理带着植入的缺陷、有东西可挽回，9B 没有。此时方案的符号接近抛硬币，值得优化的量是候选之间的<b>选择</b>，而开发集对此预测得很好。练习过的 researcher 写出的方案平均损害更小、选出的最佳更高，方向与假设一致，幅度在本研究无法分辨的范围内。</p>
 <h3>方案本身如何变化</h3>
-<figure><img src="../assets/figs/fig3_programs.png" alt="图 7">
-<figcaption><b>图 7 · 方法构成（按预算份额）与 stage 数。</b>练习后的 researcher 几乎只写单 stage 方案，在拒绝采样与针对失败的合成之间各半——在代理上表现好的方法族；所有方案互不相同。</figcaption></figure>
+<figure><img src="../assets/figs/fig3_programs.png" alt="图 6">
+<figcaption><b>图 6 · 方法构成（按预算份额）与 stage 数。</b>练习后的 researcher 几乎只写单 stage 方案，在拒绝采样与针对失败的合成之间各半——在代理上表现好的方法族；所有方案互不相同。</figcaption></figure>
 
 <h2 id="limits"><span class="no">5</span>局限</h2>
 <ul>
 <li><b>功效。</b>K = 8、条件内 s.d. 0.035，s.e.(Δ) ≈ 0.017：只能检出约 5 个点的迁移效应；+1.3 的趋势是这个分辨率下的表述。</li>
-<li><b>对照的 I</b> 只建立在 4 个可执行方案上，数值不精确；其有效率是更可靠的数字。</li>
-<li><b>协议。</b>预注册协议的 rehearsal 取自解答池；on-policy 更新及其上的条件在该变体的结果之后指定，沿用预注册的规则与 K。第二圈练习链的更新造成的任务能力损失（−2.2）超过了我们为更新设定的安全阈值（−2.0），该圈作为探索性结果报告。</li>
-<li><b>第二圈是单链证据。</b>每条链每圈只有一个 dev 选出的头，2.8 个点的差距包含选中哪个方案的采样噪声。</li>
+<li><b>协议。</b>预注册协议的 rehearsal 取自解答池；on-policy 更新及其上的条件在该变体的结果之后指定，沿用预注册的规则与 K。第二圈更新造成的任务能力损失（−2.2）超过了我们为更新设定的安全阈值（−2.0），该圈作为探索性结果报告。</li>
+<li><b>第二圈每圈只有一个头。</b>一个 dev 选出的模型，所以圈与圈之间的变化包含选中哪个方案的采样噪声。</li>
 <li><b>范围。</b>单一模型家族、单一任务；127 题留出集（单次测量 s.d. ≈ 0.015）；3 种 rollout 缺陷 + 1 种封存缺陷；仅监督目标；方案由更强的外部编码 agent 实现（各条件相同）。</li>
 </ul>
 
 <h2 id="conclusion"><span class="no">6</span>结论</h2>
-<p>Minimal-RSI 让递归自我改进闭环的每一步在可检验的规模上真实发生，并测量了两圈。在更小的模型上练习、再以 on-policy rehearsal 的更新加以巩固，在同一步里提高了模型的改进能力与任务能力；它自我设计的训练在开发集选择下比基座高 4.6 个点、比不经练习的同一流程高 2.1 个点；它为基座设计的方案趋向更好，幅度在本研究无法分辨的范围内。第二圈对任务能力没有可检出的增益。能确定的是：在这个规模上自我设计的训练通常有害，它的成功可以由开发集预测，rehearsal 的来源决定了更新是有益还是毁灭性的，而闭环的限制性资源是真实实验的信息速率。更一般地，两条链共同给出的结论是：仅凭自己的输出改进自己的模型，只是在重新分配它已有的东西；自我改进得以持续的速率，等于模型推导不出的事实进入闭环的速率。接下来的问题是：迁移的趋势在足以判定的 K 下是否成立，以及可增长的经验证任务池是否会改变"设计"与"选择"二者中哪一个值得去学。</p>
+<p>Minimal-RSI 让递归自我改进闭环的每一步在可检验的规模上真实发生，并测量了两圈。在更小的模型上练习、再以 on-policy rehearsal 的更新加以巩固，在同一步里提高了模型的改进能力与任务能力；它自我设计的训练在开发集选择下比基座高 4.6 个点、比不经练习的同一流程高 2.1 个点；它为基座设计的方案趋向更好，幅度在本研究无法分辨的范围内。第二圈对任务能力没有可检出的增益。能确定的是：在这个规模上自我设计的训练通常有害，它的成功可以由开发集预测，rehearsal 的来源决定了更新是有益还是毁灭性的，而闭环的限制性资源是真实实验的信息速率。更一般地，这两圈提示的结论是：仅凭自己的输出改进自己的模型，只是在重新分配它已有的东西；自我改进得以持续的速率，等于模型推导不出的事实进入闭环的速率。接下来的问题是：迁移的趋势在足以判定的 K 下是否成立，以及可增长的经验证任务池是否会改变"设计"与"选择"二者中哪一个值得去学。</p>
 
 
 

diff --git a/README.md b/README.md
@@ -10,10 +10,10 @@ A minimal recursive self-improvement loop in which every step is real: a 9B mode
 
 Main results:
 
-- One update raises both abilities at once: improvement ability on sealed proxy tasks +0.8 → +1.3 points of uplift, the 9B's own held-out pass@1 +1.9. A dose-matched control attributes the first to the improvement experience and the second to on-policy rehearsal.
+- One update raises both abilities at once: improvement ability on sealed proxy tasks +0.8 → +1.3 points of uplift, the 9B's own held-out pass@1 +1.9. With rehearsal drawn from other models' solutions instead of the 9B's own verified samples, the same update costs 15 points.
 - The updated 9B's self-designed training, selected on a development split, reaches 62.5% pass@1: +4.6 over the base model, +2.1 over the same procedure without proxy practice.
 - Self-designed training mostly hurts (19 of 30 programs), but the good programs are predictable from a development split (r = 0.79): selection is worth more than learned design at this scale.
-- Without an external input the loop turns once: the no-practice chain gains +2.5 and stops, while in the practice chain the ability fed by real experiments keeps rising and task ability plateaus. Self-improvement without new information is compression, not expansion.
+- Without an external input the loop turns once: self-design without practice gains +2.5 once; in the loop, the ability fed by real experiments keeps rising while task ability plateaus after one turn. Self-improvement without new information is compression, not expansion.
 
 This repository hosts the report only; the experiment code and run records are not released yet.
 
